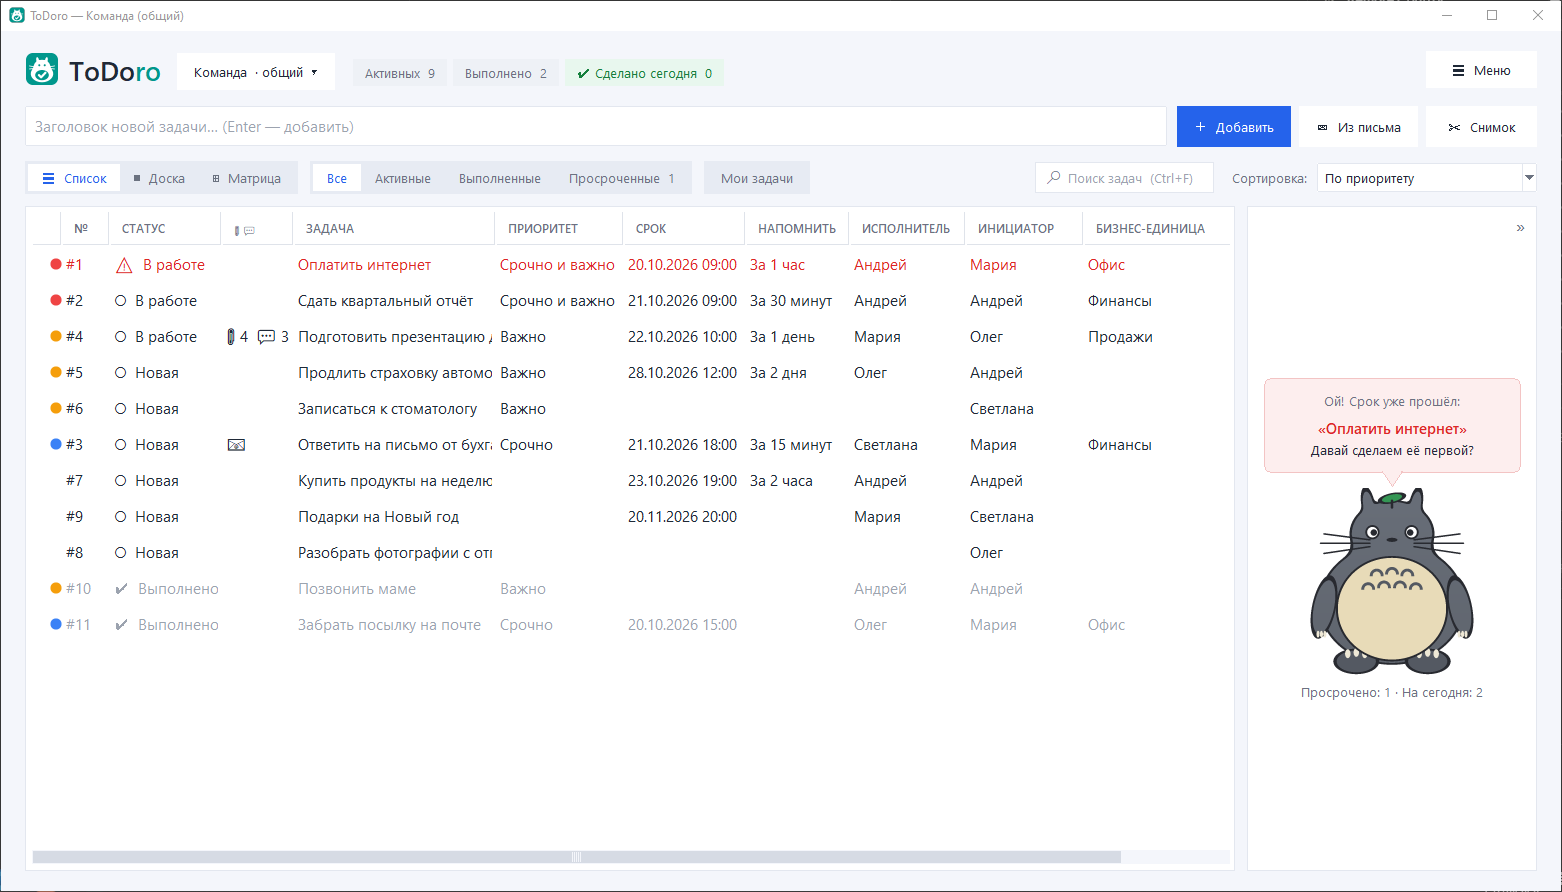
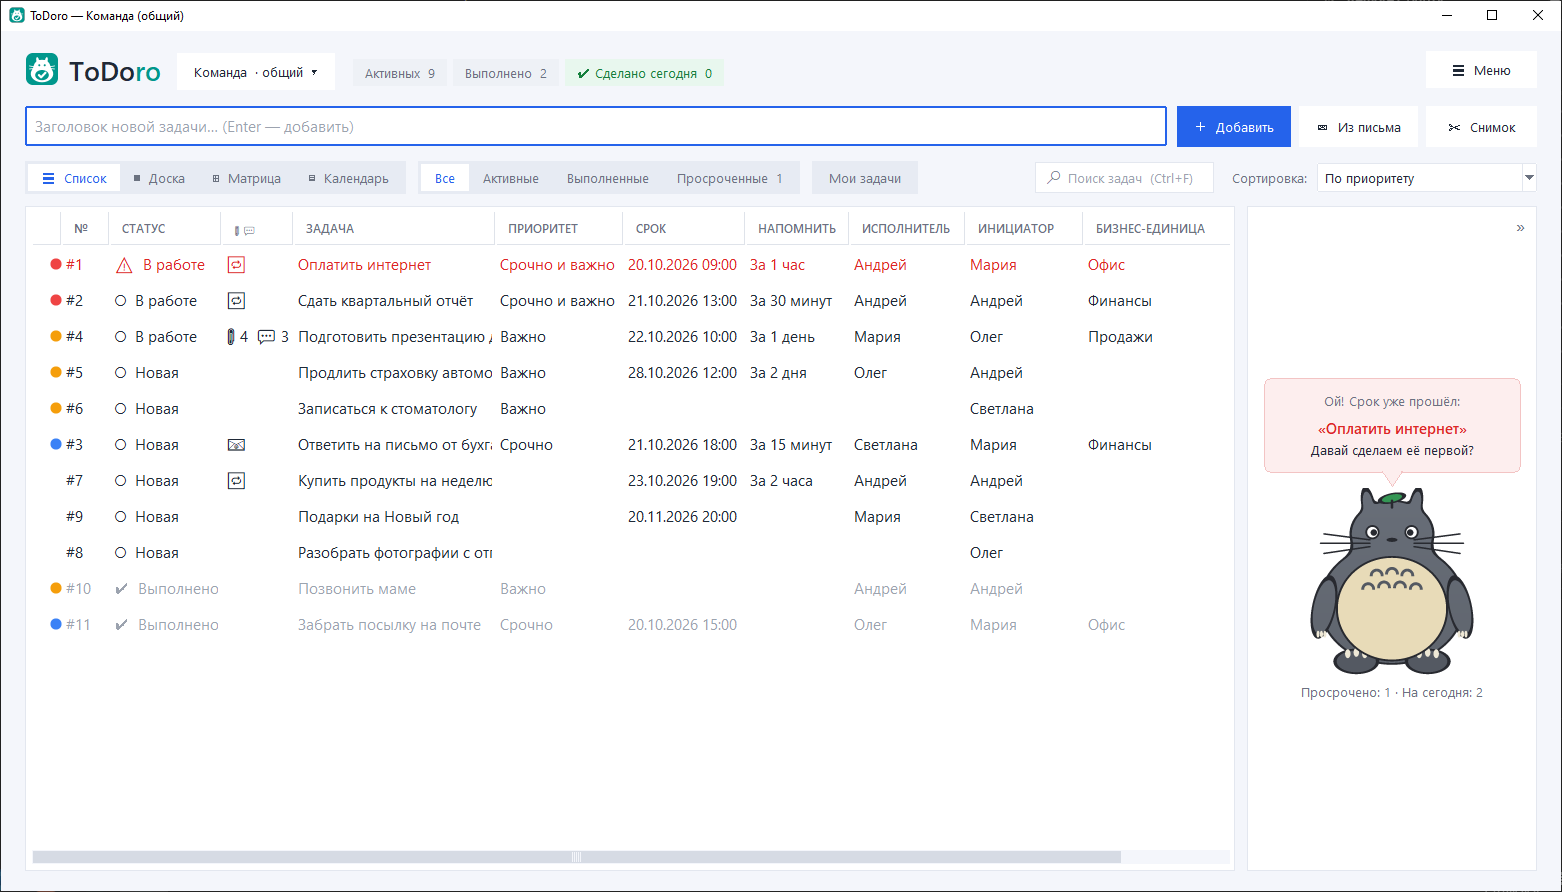
Версия 2.22

diff --git a/todoro.py b/todoro.py
@@ -36,7 +36,7 @@ from examples import make_examples
 from help_text import HELP
 
 APP_NAME = "ToDoro"  # ToDo + Totoro
-APP_VERSION = "2.21"  # номер версии — меняется здесь (установщик берёт его отсюда)
+APP_VERSION = "2.22"  # номер версии — меняется здесь (установщик берёт его отсюда)
 APP_YEAR = 2026
 COPYRIGHT_HOLDER = "Machinist"  # автор — имя меняется здесь и в файле LICENSE
 COPYRIGHT = f"© {APP_YEAR} {COPYRIGHT_HOLDER}"

diff --git a/RELEASE_NOTES.md b/RELEASE_NOTES.md
@@ -3,10 +3,17 @@
 Здесь записано, что менялось от версии к версии. Новые записи — сверху.
 Скачать установщик любой версии: https://github.com/machinist-soft/ToDoro/releases
 
-## Не выпущено
+## 2.22 — 21.10.2026
+
+### Новое
 
 - Повторяющиеся задачи: в форме задачи появились поля «Повторять» (ежедневно, еженедельно, ежемесячно, ежегодно) и рядом «До» — до какой даты (или без конца). Когда вы отмечаете такую задачу выполненной, сразу появляется такая же со следующим сроком. У повторяющихся задач — значок 🔁, в карточке — строка «Повтор».
+- В общих списках следующая задача появляется, когда задачу выполнил участник с версией 2.22 или новее (или кто-то отметил её с телефона), — попросите коллег обновиться.
 - Новый вид «▤ Календарь» рядом со «Списком», «Доской» и «Матрицей»: задачи на месяц по срокам, будущие сроки повторяющихся задач — бледным со значком 🔁. Месяцы листаются кнопками «‹ ›» или колёсиком мыши; двойной щелчок по дню — новая задача на этот день.
+
+### Исправления
+
+- Календарь для выбора срока открывается и щелчком по самому полю даты (раньше — только кнопкой 📅), а у нижнего края экрана появляется над полем и больше не прячется под панель задач Windows.
 
 ## 2.21 — 21.10.2026
 
